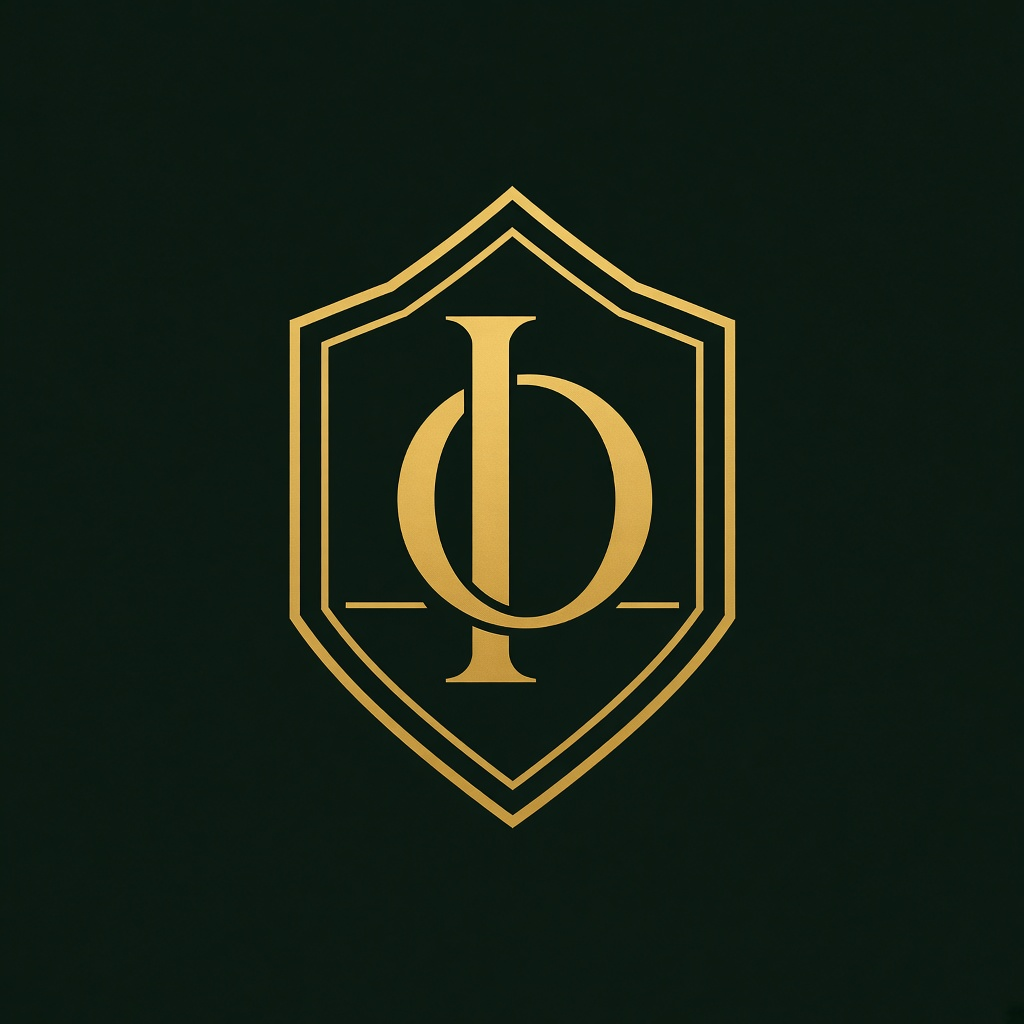
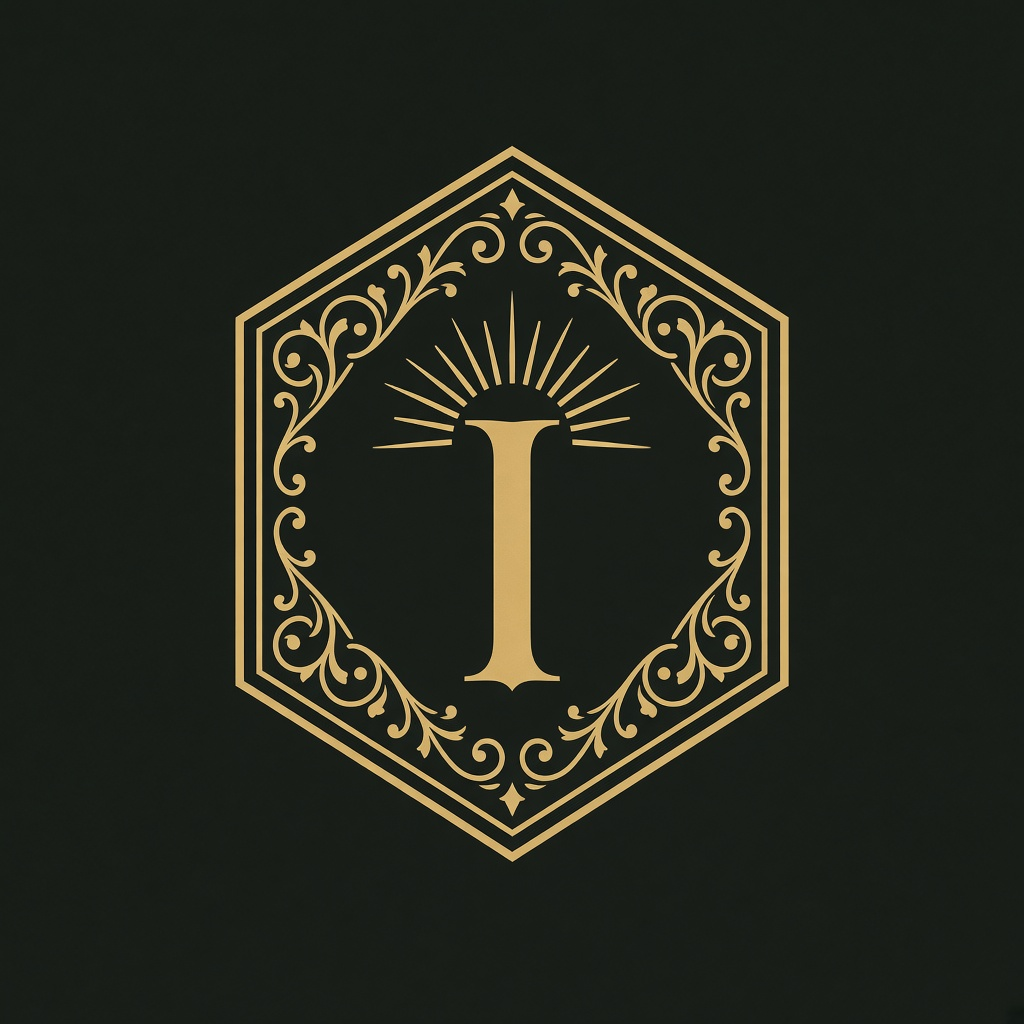
Switch brand mark to hexagonal seal with sunburst I (option D).

Changed region(s): [[0.2188, 0.125, 0.7812, 0.8438]]

diff --git a/apps/web/src/components/BrandMark.tsx b/apps/web/src/components/BrandMark.tsx
@@ -1,4 +1,4 @@
-/** Shared IMPERIAL OS crest — gold IO monogram in a double shield. */
+/** Shared IMPERIAL OS mark — hexagonal seal with sunburst I. */
 export function BrandMark({
   size = 40,
   className,
@@ -19,54 +19,71 @@ export function BrandMark({
       role={title ? "img" : undefined}
     >
       {title ? <title>{title}</title> : null}
-      {/* Outer shield */}
+
+      {/* Outer hexagon */}
       <path
-        d="M32 4 L52 12 V30 C52 44 42 54 32 60 C22 54 12 44 12 30 V12 Z"
+        d="M32 5 L50 15.5 V36.5 L32 47 L14 36.5 V15.5 Z"
         stroke="currentColor"
-        strokeWidth="2.2"
+        strokeWidth="1.8"
         strokeLinejoin="round"
       />
-      {/* Inner shield */}
+      {/* Inner hexagon */}
       <path
-        d="M32 10 L46 16.5 V30 C46 41 38.5 49 32 54 C25.5 49 18 41 18 30 V16.5 Z"
+        d="M32 9.5 L46 17.5 V34.5 L32 42.5 L18 34.5 V17.5 Z"
         stroke="currentColor"
-        strokeWidth="1.4"
+        strokeWidth="1.1"
         strokeLinejoin="round"
-        opacity="0.85"
+        opacity="0.9"
       />
-      {/* O ring */}
-      <circle
-        cx="32"
-        cy="31"
-        r="11.5"
-        stroke="currentColor"
-        strokeWidth="2.4"
-      />
-      {/* I stem */}
+
+      {/* Corner diamonds */}
+      <path d="M32 6.8 L33.2 8 L32 9.2 L30.8 8 Z" fill="currentColor" />
+      <path d="M32 42.8 L33.2 44 L32 45.2 L30.8 44 Z" fill="currentColor" />
+
+      {/* Side filigree hints */}
       <path
-        d="M32 18.5 V43.5"
+        d="M17.5 20 C20 22.5 20 29.5 17.5 32"
         stroke="currentColor"
-        strokeWidth="3.2"
+        strokeWidth="0.9"
+        opacity="0.55"
+      />
+      <path
+        d="M46.5 20 C44 22.5 44 29.5 46.5 32"
+        stroke="currentColor"
+        strokeWidth="0.9"
+        opacity="0.55"
+      />
+
+      {/* Sunburst rays above I */}
+      <g stroke="currentColor" strokeLinecap="round">
+        <path d="M32 11.2 V14.2" strokeWidth="1.2" />
+        <path d="M28.6 11.8 L29.8 14.4" strokeWidth="1.05" />
+        <path d="M35.4 11.8 L34.2 14.4" strokeWidth="1.05" />
+        <path d="M25.8 13.2 L27.6 15.2" strokeWidth="1" />
+        <path d="M38.2 13.2 L36.4 15.2" strokeWidth="1" />
+        <path d="M23.8 15.2 L26 16.6" strokeWidth="0.9" />
+        <path d="M40.2 15.2 L38 16.6" strokeWidth="0.9" />
+        <path d="M30 11.4 L30.6 13.8" strokeWidth="0.95" />
+        <path d="M34 11.4 L33.4 13.8" strokeWidth="0.95" />
+      </g>
+
+      {/* Serif I */}
+      <path
+        d="M25.5 17.2 H38.5"
+        stroke="currentColor"
+        strokeWidth="2.6"
         strokeLinecap="round"
       />
-      {/* I serifs */}
       <path
-        d="M26.5 18.5 H37.5"
+        d="M32 17.2 V37.2"
         stroke="currentColor"
-        strokeWidth="2.4"
+        strokeWidth="3.4"
         strokeLinecap="round"
       />
       <path
-        d="M26.5 43.5 H37.5"
+        d="M25.5 37.2 H38.5"
         stroke="currentColor"
-        strokeWidth="2.4"
-        strokeLinecap="round"
-      />
-      {/* Crossbar through monogram */}
-      <path
-        d="M22 36.5 H42"
-        stroke="currentColor"
-        strokeWidth="2"
+        strokeWidth="2.6"
         strokeLinecap="round"
       />
     </svg>
